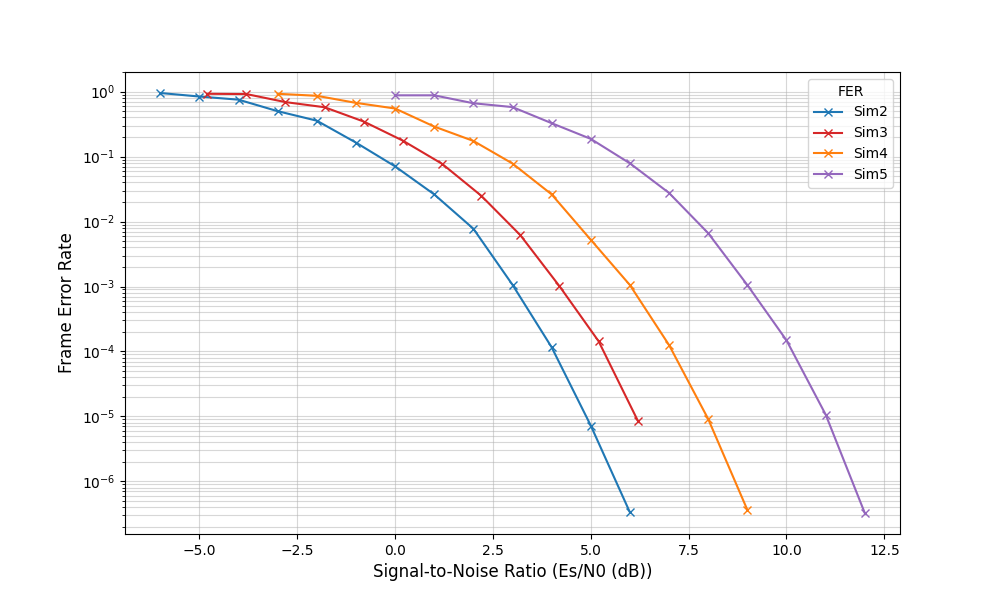
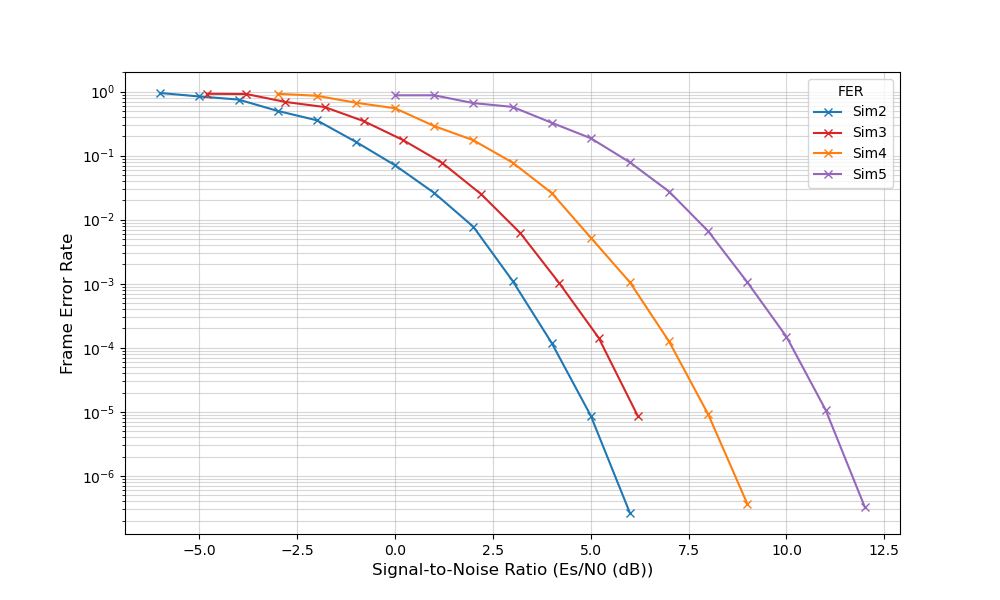
modif graphe task6

diff --git a/task6/graphe.py b/task6/graphe.py
@@ -1,0 +1,44 @@
+import pandas as pd
+import matplotlib.pyplot as plt
+import matplotlib.ticker as ticker
+# Configuration des fichiers
+# Remplacez par vos vrais noms de fichiers
+files = {'Sim1': 'sim1.csv', 'Sim2': 'sim2_truque.csv', 'Sim3': 'sim3.csv', 'Sim4': 'sim4.csv', 'Sim5': 'sim5.csv'}
+data = {name: pd.read_csv(path) for name, path in files.items()}
+
+
+
+def setup_plot(title, xlabel, ylabel):
+    plt.figure(figsize=(10, 6))
+    plt.yscale('log')
+    # Ajout des graduations spécifiques
+    plt.yticks([10**-i for i in range(8)]) 
+    plt.grid(True, which="both", ls="-", alpha=0.5)
+    plt.xlabel(xlabel, fontsize=12)
+    plt.ylabel(ylabel, fontsize=12)
+
+# --- Graphique 1 : BER/FER pour Sim1 & Sim2 (vs Eb/N0) ---
+setup_plot("Performance par Eb/N0", "Signal-to-Noise Ratio (Eb/N0 (dB))", "Frame/Bit Error Rate")
+df1, df2 = data['Sim1'], data['Sim2']
+plt.plot(df1['Eb/N0(dB)'], df1['BER'], 'o--', label='Sim1 BER', color='green', mfc='none')
+plt.plot(df1['Eb/N0(dB)'], df1['FER'], 'x-', label='Sim1 FER', color='green')
+plt.plot(df2['Eb/N0(dB)'], df2['BER'], 'o--', label='Sim2 BER', color='blue', mfc='none')
+plt.plot(df2['Eb/N0(dB)'], df2['FER'], 'x-', label='Sim2 FER', color='blue')
+plt.legend()
+plt.savefig('graphe1_task6.png')
+
+
+# --- Graphique 2 : FER pour Sim2-5 (vs Eb/N0) ---
+setup_plot("FER vs Eb/N0", "Signal-to-Noise Ratio (Eb/N0 (dB))", "Frame Error Rate")
+colors = ['tab:blue', 'tab:red', 'tab:orange', 'tab:purple']
+for i, name in enumerate(['Sim2', 'Sim3', 'Sim4', 'Sim5']):
+    plt.plot(data[name]['Eb/N0(dB)'], data[name]['FER'], 'x-', color=colors[i], label=name)
+plt.legend(title="FER")
+plt.savefig('graphe2_task6.png')
+
+# --- Graphique 3 : FER pour Sim2-5 (vs Es/N0) ---
+setup_plot("FER vs Es/N0", "Signal-to-Noise Ratio (Es/N0 (dB))", "Frame Error Rate")
+for i, name in enumerate(['Sim2', 'Sim3', 'Sim4', 'Sim5']):
+    plt.plot(data[name]['Es/N0(dB)'], data[name]['FER'], 'x-', color=colors[i], label=name)
+plt.legend(title="FER")
+plt.savefig('graphe3_task6.png')